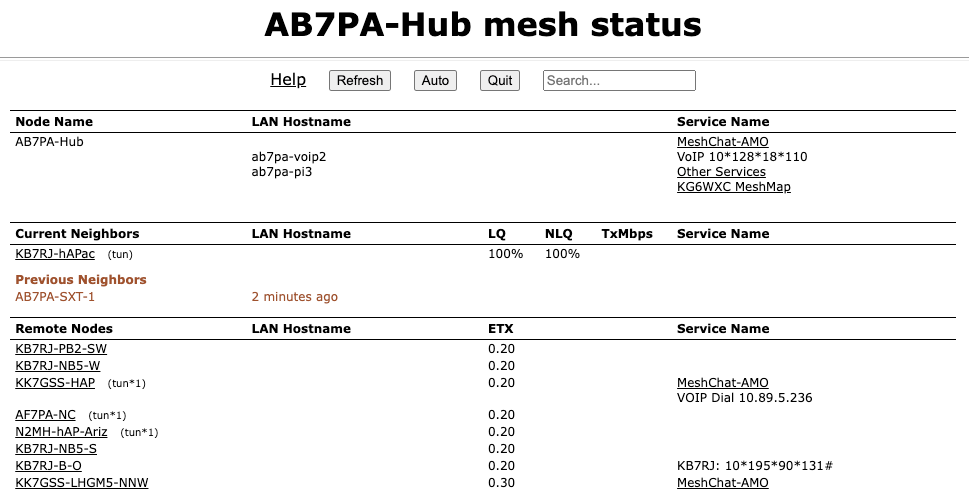
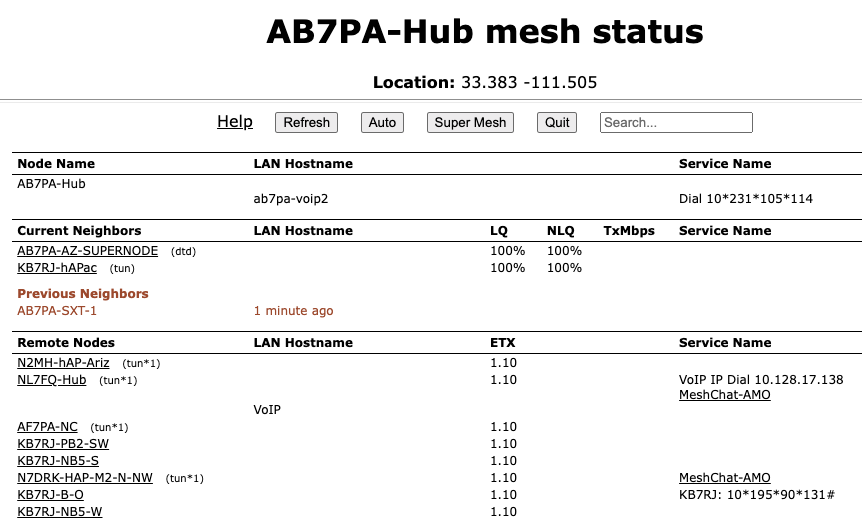
update supernode button info

diff --git a/arednGettingStarted/mesh_status.rst b/arednGettingStarted/mesh_status.rst
@@ -8,6 +8,8 @@ The **Mesh Status** page lists mesh nodes and link quality information, along wi
 
 - The **Auto** button sets the display to automatically refresh the node information every 10 seconds. To end auto-refresh mode, click **Stop** or **Quit**. *Stop* returns to the static *Mesh Status* display. *Quit* takes you back to the *Node Status* display, but clicking *Mesh Status* again from there will return you to auto-refresh mode on the *Mesh Status* display.
 
+- The **Super Mesh** button allows you to navigate to the *Mesh Status* display of the closest Supernode available to your device. Supernodes are a way to link multiple mesh island networks in a safe and efficient way. If your node is part of a Supernode network, then you have the ability to view other nodes which are part of the Supernode network even if your local mesh is not otherwise linked to those networks. For further information see the *Supernode Architecture* section of the **Network Topologies** section in the **Network Design Guide**.
+
 - The **Quit** button returns you to the *Node Status* display.
 
 - The **Search** field allows you to filter the *Mesh Status* display by any keywords of your choice. The display will be limited to showing only nodes which match the keywords you enter. As you type each character from your keyboard into the search fields, the display will change to show only the entries that match your character or string. The filter is case insensitive, so it will find both upper and lower case entries for the characters you enter. If you press the **Refresh** button on the *Mesh Status* display, the search field will be cleared.

diff --git a/arednGettingStarted/node_status.rst b/arednGettingStarted/node_status.rst
@@ -24,9 +24,6 @@ Mesh Status
 Neighbor Status
   If you have *Link Quality Manager* (LQM) enabled, you will also see a button which takes you to the **Neighbor Status** display. LQM is enabled/disabled from the **Advanced Configuration** page, and the settings for LQM are described in the **Configuration Deep Dive** section. The basic settings for *Link Quality Manager* are described below. The theory behind its operation is discussed in the AREDN |trade| *Link Quality Manager* section of the **How-To Guide**.
 
-Super Mesh
-  If you are running firmware ≥ Nightly Build 20230921, you may see a *Super Mesh* button. This allows you to navigate to the *Mesh Status* display of the closest Supernode available to your device. Supernodes are a way to link multiple mesh island networks in a safe and efficient way. If your node is part of a Supernode network, then you have the ability to view other nodes which are part of the Supernode network even if your local mesh is not otherwise linked to those networks. For further information see the *Supernode Architecture* section of the **Network Topologies** section in the **Network Design Guide**.
-
 WiFi Scan
    Displays a list of other 802.11 signals within range of your node. The 802.11 signals may include Access Points, neighbor nodes, and other mesh networks (foreign ad-hoc networks). WiFi Scan is described in more detail below.
 
